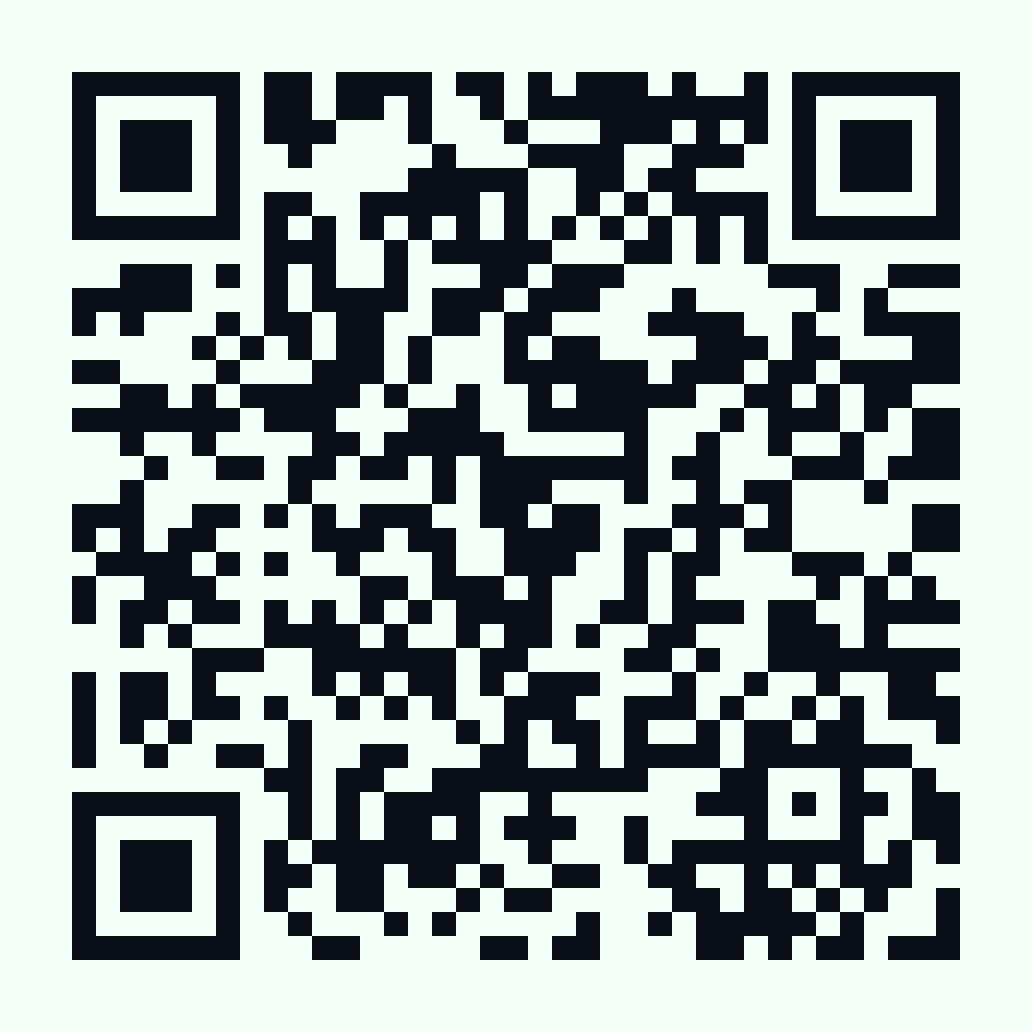
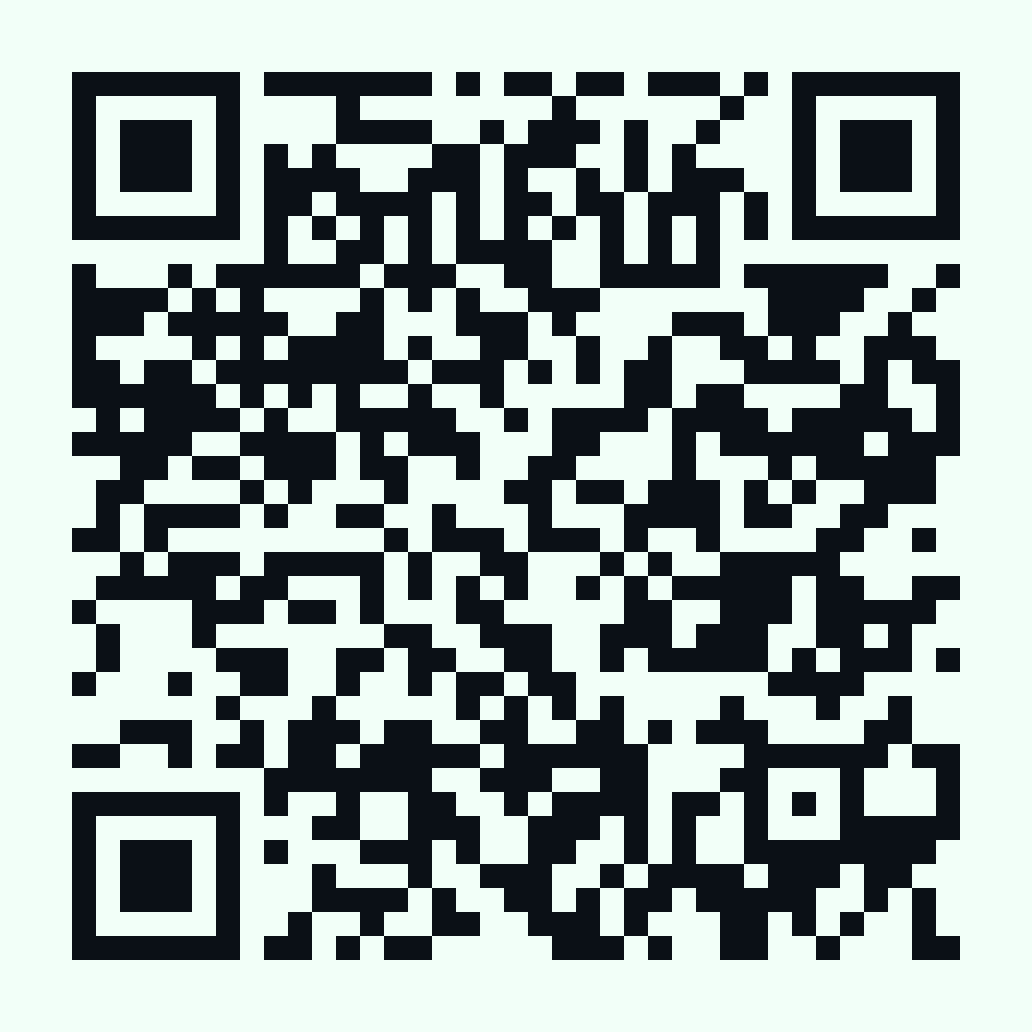
fix: atualiza link e QR code do jogo online para o novo endereço (BugBuster)

Changed region(s): [[0.062, 0.062, 0.9302, 0.9302]]

diff --git a/README.md b/README.md
@@ -2,7 +2,7 @@
 
 Um jogo retro-cyberpunk 2D de labirinto, desenvolvido inteiramente com as tecnologias base da Web (**HTML5, CSS3 e JavaScript Vanilla**), sem dependência de bibliotecas externas ou frameworks.
 
-### ▶ [Jogue online: kauaxp77.github.io/Jogo_frontend](https://kauaxp77.github.io/Jogo_frontend/)
+### ▶ [Jogue online: kauaxp77.github.io/BugBuster](https://kauaxp77.github.io/BugBuster/)
 
 Funciona no computador e no celular, sem instalar nada. Aponte a câmera do celular para o QR code:
 
@@ -49,7 +49,7 @@ Funciona no computador e no celular, sem instalar nada. Aponte a câmera do celu
 - [Apresentação final (PDF)](docs/Apresentacao_BugBuster.pdf) · [versão PowerPoint](docs/Apresentacao_BugBuster.pptx)
 
 ## 🚀 Como Executar
-Jogue direto em https://kauaxp77.github.io/Jogo_frontend/ (publicado pelo GitHub Pages a cada push no `main`).
+Jogue direto em https://kauaxp77.github.io/BugBuster/ (publicado pelo GitHub Pages a cada push no `main`).
 
 Para rodar localmente, abra o arquivo `index.html` em qualquer navegador moderno. Não requer servidor, Node.js ou bundler.
 
